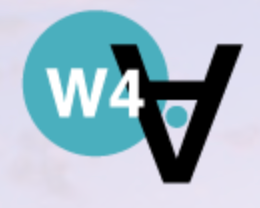
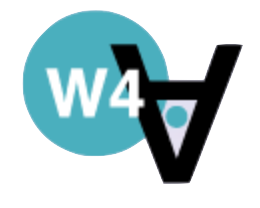
news

diff --git a/src/components/News.js b/src/components/News.js
@@ -23,37 +23,37 @@ const newsItems = [
     {
         id: 1,
         date: 'April 29, 2025',
-        icon: 'W',
+        image: 'w4a25', // Image filename in public/News folder
         color: '#2196f3', // blue
         bgColor: '#e3f2fd', // light blue
         headline: 'Best Paper - Web4All 2025',
-        description: 'Our Paper “Adapting Online Customer Reviews for Blind Users: A Case Study of Restaurant Reviews” received a  🏆 Best Paper Award at Web4All 2025!',
+        description: 'Our Paper "Adapting Online Customer Reviews for Blind Users: A Case Study of Restaurant Reviews" received a  🏆 Best Paper Award at Web4All 2025!',
         link: 'https://www.w4a.info/2025/awards/'
     },
-    // {
-    //     id: 2,
-    //     date: 'March 22, 2025',
-    //     icon: 'J',
-    //     color: '#1976d2', // darker blue
-    //     bgColor: '#e8f4f8', // very light blue
-    //     headline: 'Journal article published in ACM Transactions on Accessible Computing',
-    //     description: 'Our work on intelligent screen readers for dynamic content has been published in the ACM Transactions on Accessible Computing.',
-    //     link: 'https://example.com/paper2'
-    // },
-    // {
-    //     id: 3,
-    //     date: 'February 15, 2025',
-    //     icon: 'A',
-    //     color: '#00bcd4', // teal
-    //     bgColor: '#e0f7fa', // light teal
-    //     headline: 'Awarded NSF Grant for Research on AI-Enhanced Accessibility',
-    //     description: 'Our lab has received a $500,000 NSF grant to explore applications of generative AI for making digital content more accessible.',
-    //     link: 'https://example.com/grant'
-    // },
+    {
+        id: 2,
+        date: 'March 26, 2025',
+        image: 'cscw25', // Image filename in public/News folder
+        color: '#1976d2', // darker blue
+        bgColor: '#e8f4f8', // very light blue
+        headline: 'Paper Accepted - ACM CSCW 2025',
+        description: 'Our paper, "Insights in Adaptation: Examining Self-reflection Strategies of Job Seekers with Visual Impairments in India," has been accepted for presentation at the ACM CSCW Conference.',
+        link: 'https://example.com/paper2'
+    },
+    {
+        id: 3,
+        date: 'January 20, 2025',
+        image: 'odu', // Image filename in public/News folder
+        color: '#00bcd4', // teal
+        bgColor: '#e0f7fa', // light teal
+        headline: 'Awarded Dr. Hussein Abdel-Wahab Memorial Graduate Fellowship',
+        description: 'Honored to receive ODU’s Dr. Hussein Abdel-Wahab Memorial Graduate Fellowship, celebrating his pioneering CS legacy and supporting my continued research excellence.',
+        link: 'https://www.odu.edu/computer-science/scholarships/wahab'
+    },
     // {
     //     id: 4,
     //     date: 'January 8, 2025',
-    //     icon: 'W',
+    //     image: 'w4a25', // Image filename in public/News folder
     //     color: '#ff9800', // orange
     //     bgColor: '#fff3e0', // light orange
     //     headline: 'Workshop on Inclusive Computing at CHI 2025',
@@ -63,7 +63,7 @@ const newsItems = [
     // {
     //     id: 5,
     //     date: 'November 30, 2024',
-    //     icon: 'A',
+    //     image: 'w4a25', // Image filename in public/News folder
     //     color: '#e91e63', // pink
     //     bgColor: '#fce4ec', // light pink
     //     headline: 'Best Paper Award at ICMI 2024',
@@ -72,36 +72,31 @@ const newsItems = [
     // }
 ];
 
-// Logo/Icon component
-const NewsIcon = ({ letter, color, size = 4 }) => {
+// Image component with improved handling
+const NewsImage = ({ imageName, alt, size = 56 }) => {
     return (
         <Box
+            component="img"
+            src={`/News/${imageName}.png`}
+            alt={alt || `Icon for ${imageName}`}
             sx={{
                 width: size,
                 height: size,
-                backgroundColor: color,
                 borderRadius: '4px',
-                display: 'flex',
-                justifyContent: 'center',
-                alignItems: 'center',
-                color: 'white',
-                fontWeight: 'bold',
-                fontSize: size / 2
+                objectFit: 'contain', // Changed from 'cover' to 'contain' to prevent cropping
+                maxWidth: '100%',
+                maxHeight: '100%'
             }}
-        >
-            {letter}
-        </Box>
+        />
     );
 };
-
 // News Item Card
 const NewsCard = ({ item }) => {
     return (
         <Card
             sx={{
                 width: { xs: 280, sm: 320, md: 360 },
-                height: '100%',
-                maxHeight: 400,
+                height: 340, // Keep fixed height
                 borderRadius: '12px',
                 overflow: 'hidden',
                 transition: 'transform 0.2s ease-in-out, box-shadow 0.2s ease-in-out',
@@ -118,8 +113,28 @@ const NewsCard = ({ item }) => {
             elevation={1}
         >
             <CardContent sx={{ p: 3, flexGrow: 1, display: 'flex', flexDirection: 'column' }}>
-                <Box sx={{ display: 'flex', justifyContent: 'space-between', alignItems: 'flex-start', mb: 2 }}>
-                    <NewsIcon letter={item.icon} color={item.color} size={56} />
+                {/* Image and date section - Fixed height with proper image container */}
+                <Box sx={{
+                    display: 'flex',
+                    justifyContent: 'space-between',
+                    alignItems: 'flex-start',
+                    mb: 2,
+                    height: 56 // Fixed height for this section
+                }}>
+                    <Box sx={{
+                        width: 56,
+                        height: 56,
+                        display: 'flex',
+                        alignItems: 'center',
+                        justifyContent: 'center',
+                        overflow: 'visible' // Allow image to be fully visible
+                    }}>
+                        <NewsImage
+                            imageName={item.image}
+                            alt={`Icon for ${item.headline}`}
+                            size={56}
+                        />
+                    </Box>
 
                     <Typography
                         variant="body2"
@@ -148,27 +163,27 @@ const NewsCard = ({ item }) => {
                         overflow: 'hidden',
                         WebkitBoxOrient: 'vertical',
                         WebkitLineClamp: 2,
-                        minHeight: '3.2rem'
+                        height: '2.6em',
                     }}
                 >
                     {item.headline}
                 </Typography>
 
-                <Typography
-                    variant="body2"
-                    sx={{
-                        mb: 2,
-                        color: 'text.secondary',
-                        lineHeight: 1.6,
-                        display: '-webkit-box',
-                        overflow: 'hidden',
-                        WebkitBoxOrient: 'vertical',
-                        WebkitLineClamp: 3,
-                        flexGrow: 1
-                    }}
-                >
-                    {item.description}
-                </Typography>
+                <Box sx={{ height: 100, mb: 2, overflow: 'hidden' }}>
+                    <Typography
+                        variant="body2"
+                        sx={{
+                            color: 'text.secondary',
+                            lineHeight: 1.6,
+                            display: '-webkit-box',
+                            overflow: 'hidden',
+                            WebkitBoxOrient: 'vertical',
+                            WebkitLineClamp: 4,
+                        }}
+                    >
+                        {item.description}
+                    </Typography>
+                </Box>
 
                 <Link
                     href={item.link}
